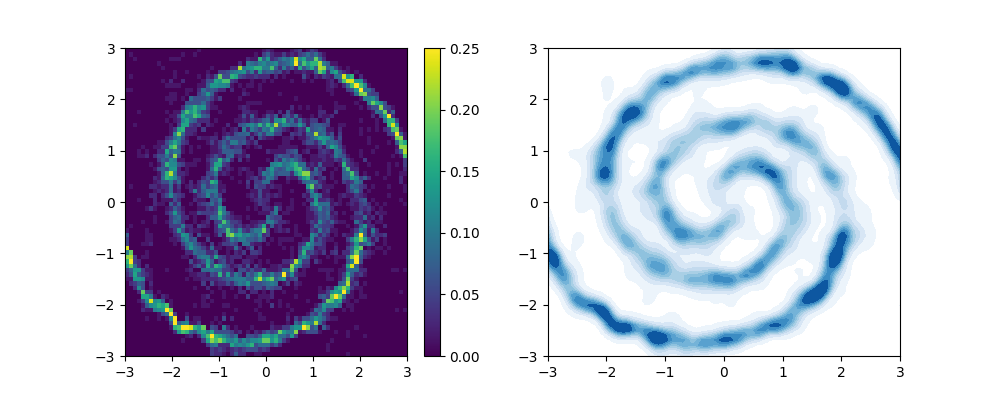
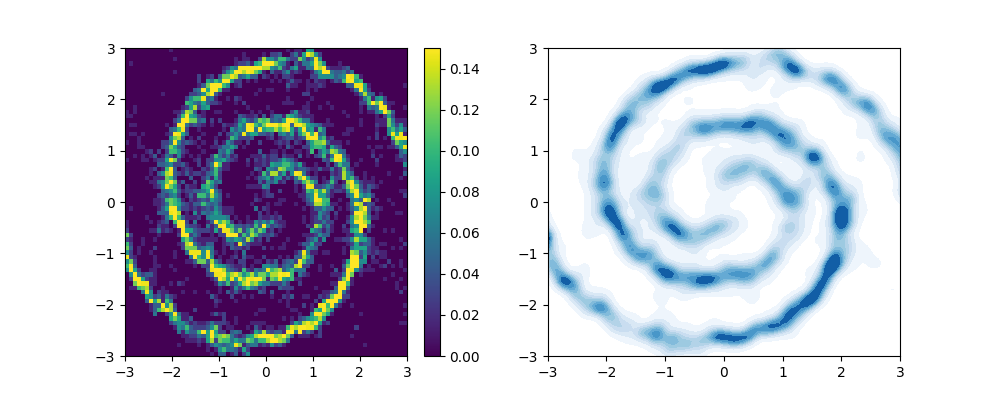
generic commit

diff --git a/scripts/transport/kvae_flow.py b/scripts/transport/kvae_flow.py
@@ -78,7 +78,7 @@ class Comp_transport_model:
         self.plot_steps = False
 
         n = len(self.submodel_params['Lambda_mean'])
-        eps = 1 #1e-3
+        eps = 1e-3
         self.noise_shrink_c = np.exp(np.log(eps)/(n-1))
         self.noise_eps = 1
 
@@ -95,7 +95,7 @@ class Comp_transport_model:
 
 
     def map_mean(self, x_mu, y_mean, y_var, Lambda_mean, X_mean, fit_kernel):
-        x_mean = torch.concat([x_mu, y_mean], dim=1)
+        x_mean = torch.concat([x_mu, y_mean + y_var], dim=1)
         z_mean = fit_kernel(X_mean, x_mean).T @ Lambda_mean
         return z_mean
 
@@ -191,7 +191,7 @@ class CondTransportKernel(nn.Module):
         self.Y_target = torch.concat([deepcopy(self.X_mu), self.Y_mu], dim=1)
 
         self.X_var = torch.concat([self.X_mu, shuffle(self.Y_eta), self.Y_mean + self.Y_var], dim=1)
-        self.X_mean = torch.concat([self.X_mu, self.Y_mean], dim=1)
+        self.X_mean = torch.concat([self.X_mu, self.Y_mean + self.Y_var], dim=1)
 
         self.Nx = len(self.X_mean)
         self.Ny = len(self.Y_target)
@@ -269,7 +269,7 @@ class CondTransportKernel(nn.Module):
 
 
     def map_mean(self, x_mu, y_mean, y_var):
-        x_mean = torch.concat([x_mu, y_mean], dim=1)
+        x_mean = torch.concat([x_mu, y_mean + y_var], dim=1)
         Lambda_mean = self.get_Lambda_mean()
         z_mean = self.fit_kernel(self.X_mean, x_mean).T @ Lambda_mean
         return z_mean
@@ -388,7 +388,7 @@ def comp_cond_kernel_transport(X_mu, Y_mu, Y_eta, Y_eta_test, X_mu_test, Y_mu_te
                                params, n_iter = 101, n = 50, batch_size = 4000, reg_lambda = 1e-4):
     model_params = {'fit_kernel': [], 'Lambda_mean': [], 'X_mean': [], 'Lambda_var': [], 'X_var': []}
     iters = 0
-    final_eps = 1#1e-3
+    final_eps = 1e-3
     noise_shrink_c = np.exp(np.log(final_eps)/(n-1))
 
     Y_mean = 0
